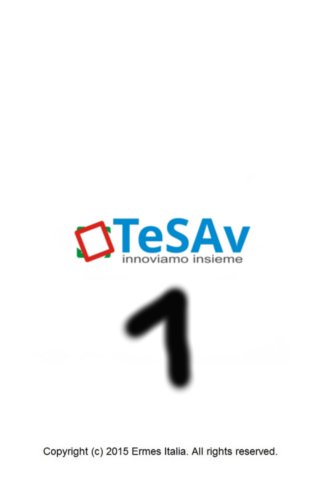
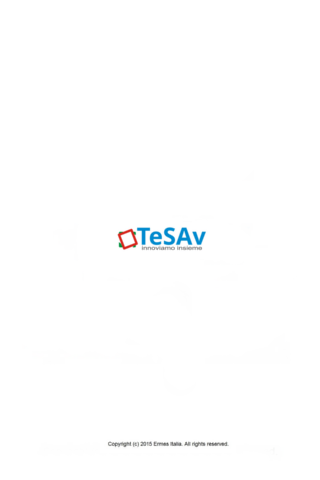
1539
1539

Changed region(s): [[0.2188, 0.4375, 0.7812, 0.5625], [0.125, 0.9062, 0.875, 0.9688], [0.375, 0.5938, 0.625, 0.8125]]

diff --git a/www/index.html b/www/index.html
@@ -964,10 +964,10 @@
 							position: absolute;
 							top: 50%;
 							left: 50%;
-							margin-top: -150px;
-							margin-left: -150px;
-							width: 300px;
-							height: 260px;
+							margin-top: -300px;
+							margin-left: -300px;
+							width: 600px;
+							height: 540px;
 							
 							z-index: 111;
 							
